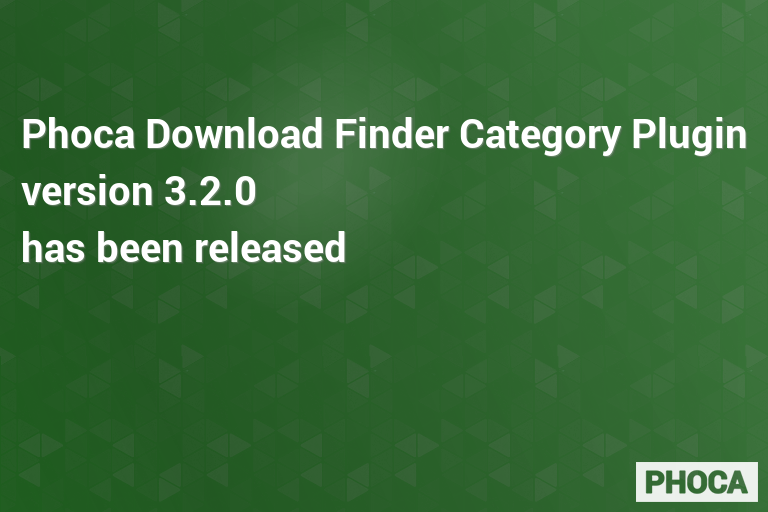
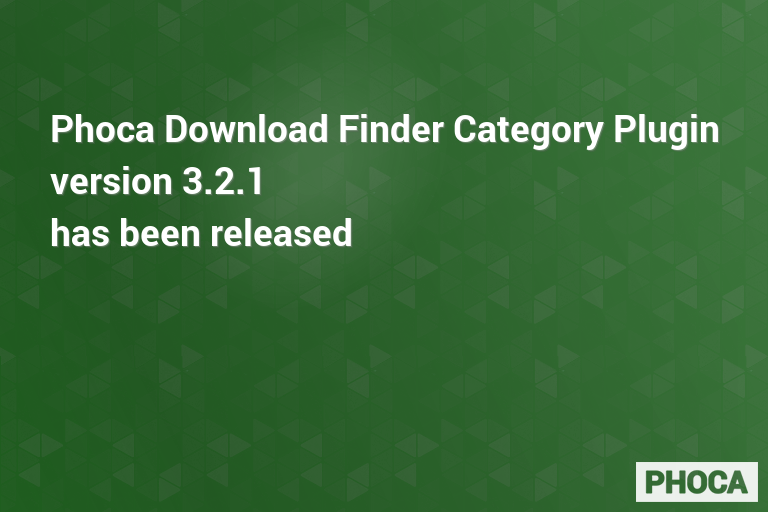
3.2.1
3.2.1

Changed region(s): [[0.0312, 0.2188, 1.0, 0.5312]]

diff --git a/README.MD b/README.MD
@@ -54,7 +54,7 @@ Phoca Download Finder plugin is a Joomla! plugin which allows you to search for 
 
 ## Version
 
-3.2.0
+3.2.1
 
 
 
